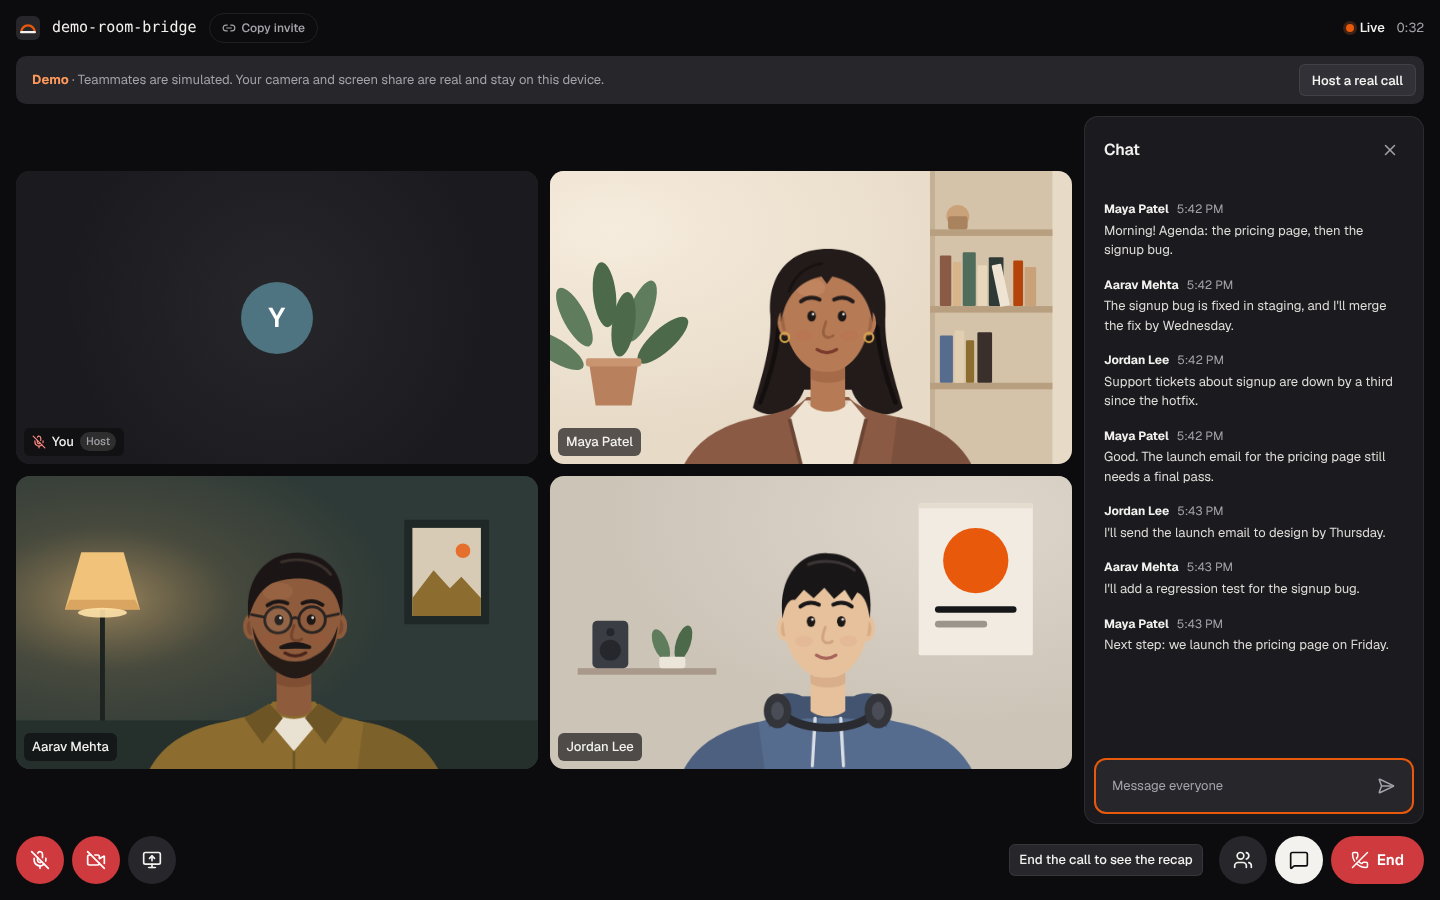
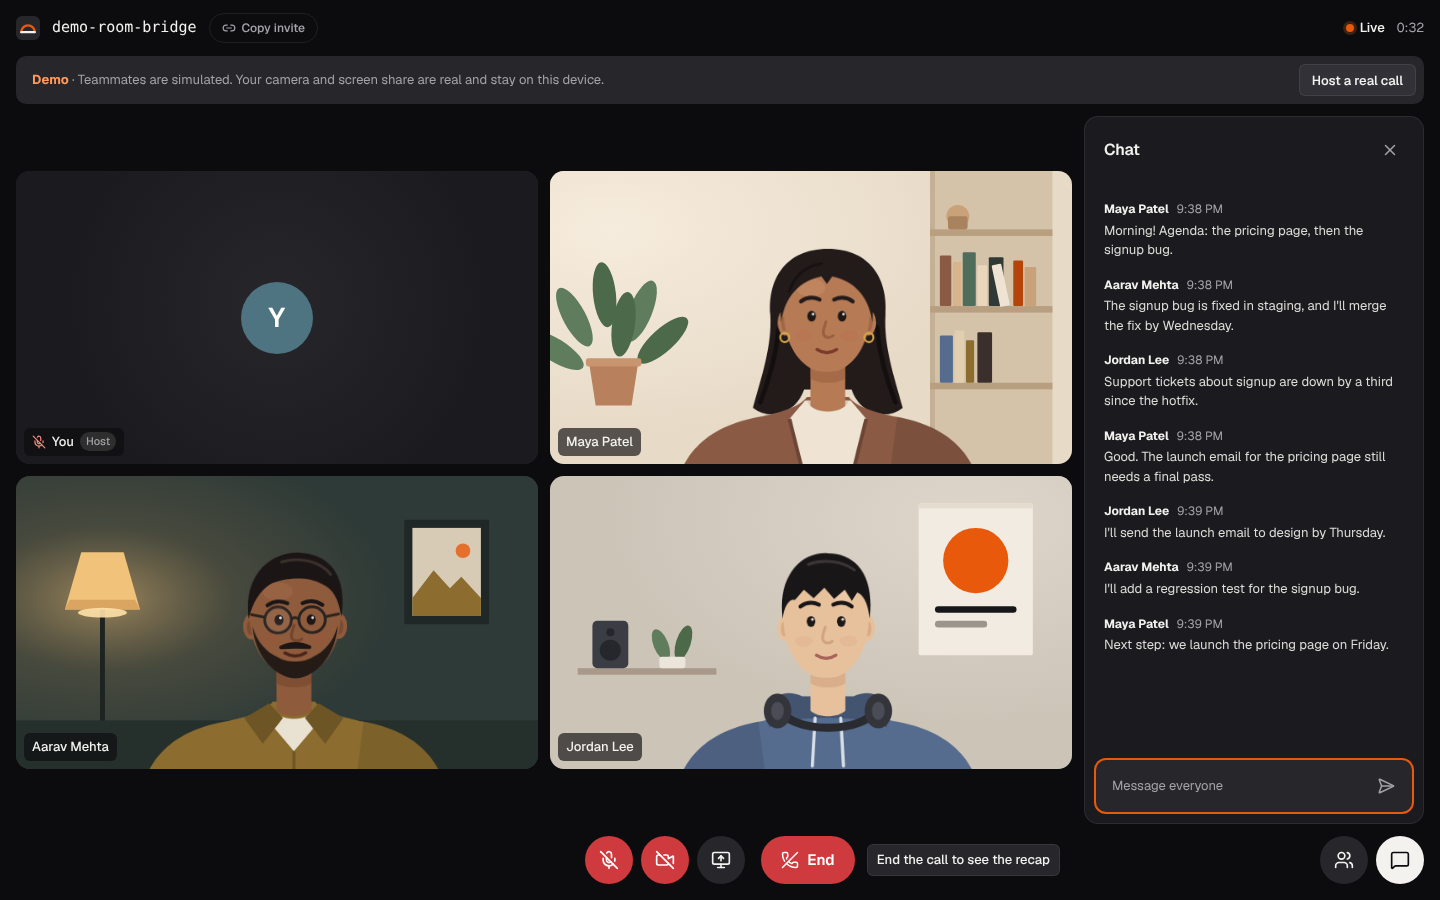
docs(design): record the app polish; one-line section headings
Section headings fit on one line from 768 px up. DESIGN.md documents the
control bar, meeting row, mic meter and portrait grid, with a decision log
entry. README room screenshot shows the centred controls.

diff --git a/frontend/src/pages/LandingPage.module.css b/frontend/src/pages/LandingPage.module.css
@@ -246,7 +246,8 @@
 }
 
 .title {
-    max-width: 22ch;
+    /* Wide enough that each section heading sits on one line at desktop widths. */
+    max-width: 30ch;
     margin: 16px 0 0;
     font-size: clamp(1.75rem, 1.2rem + 1.2vw, 2.25rem);
     font-weight: 500;

diff --git a/DESIGN.md b/DESIGN.md
@@ -65,7 +65,10 @@ App UI: 150–250 ms, `cubic-bezier(0.2, 0, 0, 1)`, transform and opacity only. 
 - **Button**: `primary` (ink), `secondary` (surface + border), `ghost`, `danger`. Sizes `sm` 32, `md` 40, `lg` 48 px. Loading state keeps the width and shows a spinner.
 - **Field**: label above, hint or error below, error linked with `aria-describedby`.
 - **Control button** (room): 48 px round, labelled, tooltip with keyboard shortcut, `aria-pressed` for toggles. Off-state for mic/camera is filled red so it reads at a glance.
-- **Video tile**: 16:9, radius 14, name chip bottom-left, mic-off badge, accent ring while speaking, avatar when the camera is off, `contain` fit for screen shares.
+- **Control bar** (room): microphone, camera, present and End centred under the call; People and Chat at the right edge. Below 960 px the core group moves left so the space beside End stays free. The demo's "End the call" hint sits just right of End (above it on phones), never over a tile.
+- **Meeting row** (home, history): one link per row. Avatar stack (first person on top, 6 px overlap, initials nudged into the visible part), then the recap's decision as the headline, then code · people · length · who hosted, then a Mail-style date ("10:00 AM", "Yesterday", "Wednesday", "Nov 14") and a chevron. A live call shows "Started … ago" and a Rejoin pill, and is listed once.
+- **Mic meter** (lobby): three bars beside "Microphone on" that follow your voice, sampled every 60 ms and drawn with `transform` only.
+- **Video tile**: 16:9 on landscape stages; on a portrait stage each tile takes its cell's shape between 3:4 and 16:9, so four people fill a phone as a 2×2 grid (`gridLayout.ts`). Radius 14, name chip bottom-left, mic-off badge, accent ring while speaking, avatar when the camera is off, `contain` fit for screen shares.
 - **Toast**: bottom-centre, polite live region, auto-dismiss 5 s; errors are `role="alert"`.
 
 ## States
@@ -161,3 +164,7 @@ The landing page was correct and forgettable: no faces anywhere, a blank first f
 ### 2026-11-03: Landing v3, fewer and better things
 
 v2 proved the product was real but repeated itself: the four-person grid six times, heavy black frames on a light page, a 7-link nav and four sections of engineering documentation, at 11,969 px on desktop. Decision: seven sections, light only, structured like bydefault.so (rails, a hero card, a floating nav, small centred headings, product UI as HTML cards, one dark band, an FAQ). The engineering material moved to `docs/CASE_STUDY.md`. The recap engine was fixed first, because the page shows its output. Reasoning: `docs/LANDING_V3.md`.
+
+### 2026-11-21: The product matches the landing page
+
+The landing page promised a history where every call sits a click away with its recap; the app showed a table of room codes with a "Recap" button, listed a live call twice on Home, and pinned the call controls to the screen edges. Decision: hold the signed-in app to the landing's bar. Meeting rows lead with the recap's decision and the people in it, and are one link each; the core call controls are centred as in FaceTime, Meet and Zoom; phones get a filled 2×2 call instead of stacked strips; the lobby gets a live mic meter so you know you'll be heard before you join. Smaller fixes: per-page titles, an invite-aware sign-in screen, server errors in plain words, the landing's browser chrome on dark-mode phones, and absolute share-card URLs.
